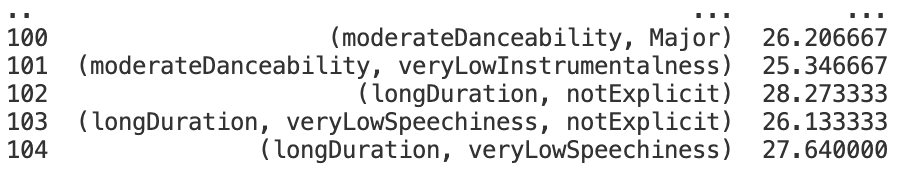
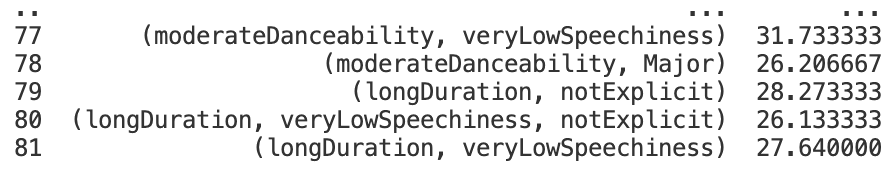
final push fp growth

diff --git a/src/classification/dst/dstModel.py b/src/classification/dst/dstModel.py
@@ -1,0 +1,74 @@
+import os.path as path
+import math
+import pandas as pd
+from sklearn.model_selection import KFold
+import numpy as np
+from sklearn.tree import DecisionTreeClassifier
+from sklearn.preprocessing import KBinsDiscretizer, LabelEncoder
+from sklearn.metrics import accuracy_score, f1_score, recall_score, precision_score
+from utils import getTrainDatasetPath, continousAndCategorialFeaturesForClassification, saveModelParams
+
+def makeDecisionTreeClassifierDictValue (criterion:str, maxDepth:int, minSampleLeaf:int, minSampleSplit:int, splitNumber:int, ccp_alpha, metrics,model):
+    return {
+        "criterion":criterion, 
+        "max_depth":maxDepth, 
+        "min_samples_leaf":minSampleLeaf, 
+        "min_samples_split":minSampleSplit, 
+        "splitNumber":splitNumber,
+        "ccp_alpha":ccp_alpha,
+        "metrics": metrics,
+        "model": model
+    }
+
+def getDecisionTreeModel (targetVariable):
+    columnsToUse = continousAndCategorialFeaturesForClassification
+
+    dataset = pd.read_csv (getTrainDatasetPath())[columnsToUse]
+
+    if(targetVariable == "mode"):
+        dataset["genre"]= LabelEncoder().fit_transform(dataset["genre"])
+    
+    X = dataset.copy().drop(targetVariable, axis=1)  
+    Y =  dataset[targetVariable]
+    kf = KFold(n_splits=20, shuffle=True, random_state=42)
+
+    criterions =  ['entropy', 'gini']
+    maxDepths = list(np.arange(2, 3)) + [None]
+    minSamplesLeaf= [ 0.1, 0.2, 1, 2 ,3 ,4 ,5 , 6]
+    minSamplesSplit=[ 0.05, 0.1, 0.2]
+    ccp_alphas= list(np.arange(0.01, 0.1))
+
+    decisionTreeClassifierDict = {}
+    for criterion in criterions:
+        for maxDepth in maxDepths:
+            for minSampleLeaf in minSamplesLeaf:
+                for minSampleSplit in minSamplesSplit:
+                    for ccp_alpha in ccp_alphas:
+                        splitNumber = 1
+                        for trainIndex, testIndex in kf.split (X):
+                                X_train, X_test = X.iloc[trainIndex], X.iloc[testIndex]
+                                y_train, y_test = Y.iloc[trainIndex], Y.iloc[testIndex]
+                                model = DecisionTreeClassifier(
+                                    max_depth=maxDepth, 
+                                    criterion=criterion, 
+                                    min_samples_leaf=minSampleLeaf, 
+                                    min_samples_split=minSampleSplit, 
+                                    ccp_alpha=ccp_alpha
+                                )
+                                model.fit (X_train, y_train)
+                                predictions=model.predict(X_test)
+                                accuracyScore = accuracy_score(predictions, y_test)
+                                
+                                f1Score = f1_score(predictions, y_test, average="weighted")
+                                recallScore = recall_score(predictions, y_test, average="weighted", zero_division=1)
+                                precisionScore = precision_score(predictions, y_test, average="weighted", zero_division=1)
+                                
+                                metrics = {'accuracyScore':accuracyScore, "f1Score":f1Score, "precisionScore": precisionScore, "recallScore":recallScore}
+
+                                decisionTreeRegKey = f"DST with criterion:{criterion}, maxDepth:{maxDepth}, minSampleLeaf:{minSampleLeaf}, minSampleSplit:{minSampleSplit}, splitNumber:{splitNumber}, ccp_alpha:{ccp_alpha}, metrics:{metrics}"
+                                decisionTreeClassifierDict[decisionTreeRegKey] = makeDecisionTreeClassifierDictValue (criterion, maxDepth, minSampleLeaf, minSampleSplit, splitNumber,ccp_alpha,  metrics, model)
+
+                                print(decisionTreeRegKey)
+                                splitNumber += 1
+                                #saveModelParams (decisionTreeClassifierDict, targetVariable)
+    return decisionTreeClassifierDict

diff --git a/src/patterMining/fpgrowth/featureTransformation.py b/src/patterMining/fpgrowth/featureTransformation.py
@@ -7,7 +7,7 @@ def getTrainDataset ():
 
 def getDatasetWithPatterMiningFeatures()->pd.DataFrame:
     df = pd.read_csv(getTrainDataset ())
-    selected_cols=['duration_ms', 'explicit', 'popularity', 'mode', 'genre', 'danceability', 'energy','speechiness', 'instrumentalness', 'acousticness', 'liveness', 'key']
+    selected_cols=['duration_ms', 'explicit', 'popularity', 'mode', 'genre', 'danceability', 'energy','speechiness', 'acousticness', 'liveness']
     
     df = df[selected_cols]
 
@@ -25,8 +25,6 @@ def getDatasetWithPatterMiningFeatures()->pd.DataFrame:
     #speechiness transformation
     df['speechiness_category'] = pd.cut(df['speechiness'], bins=[0.0, 0.2, 0.4, 0.6, 0.8, 1.0], labels=['veryLowSpeechiness', 'lowSpeechiness', 'moderateSpeechiness', 'highSpeechiness', 'veryHighSpeechiness'], include_lowest=True, right=True)
     
-    #instrumentalness transformation
-    df['instrumentalness_category'] = pd.cut(df['instrumentalness'], bins=[0.0, 0.2, 0.4, 0.6, 0.8, 1.0], labels=['veryLowInstrumentalness', 'lowInstrumentalness', 'moderateInstrumentalness', 'highInstrumentalness', 'veryHighInstrumentalness'], include_lowest=True, right=True)
     
     #acousticness transformation
     df['acousticness_category'] = pd.cut(df['acousticness'], bins=[0.0, 0.2, 0.4, 0.6, 0.8, 1.0], labels=['veryLowAcousticness', 'lowAcousticness', 'moderateAcousticness', 'highAcousticness', 'veryHighAcousticness'], include_lowest=True, right=True)
@@ -48,4 +46,4 @@ def getDatasetWithPatterMiningFeatures()->pd.DataFrame:
     df['genre_category'] = df['genre']
 
 
-    return df[['popularity_category','acousticness_category', 'liveness_category', 'danceability_category','energy_category' ,'speechiness_category', 'duration_category', 'instrumentalness_category', 'explicit_category', 'mode_category', 'genre_category']]
+    return df[['popularity_category','acousticness_category', 'liveness_category', 'danceability_category','energy_category' ,'speechiness_category', 'duration_category', 'explicit_category', 'mode_category', 'genre_category']]

diff --git a/src/patterMining/fpgrowth/fpgrowth.py b/src/patterMining/fpgrowth/fpgrowth.py
@@ -34,7 +34,7 @@ maximalFrequentItemSets = fpgrowth(X, target="m", supp=supp, zmin=zmin, report="
 print('\nMaximal Item Set\n')
 print (pd.DataFrame(maximalFrequentItemSets, columns=["frequent_itemset", "support"]))
 
-len_max_it, len_cl_it, support_thresholds = [], [], []
+len_max_it, len_cl_it, len_fr_it, support_thresholds = [], [], [], []
 max_supp = findCommonHighestSupport(pd.DataFrame(closedFrequentItemSets, columns=["frequent_itemset", "support"]),pd.DataFrame(maximalFrequentItemSets, columns=["frequent_itemset", "support"]))
 print('max is' + str(max_supp))
 
@@ -42,13 +42,16 @@ for i in range(2, int(max_supp)):
     support_thresholds.append(i)
     max_itemsets = fpgrowth(X, target="m", supp=i, zmin=zmin)
     cl_itemsets = fpgrowth(X, target="c", supp=i, zmin=zmin)
+    freq_itemsets = fpgrowth(X, target="s", supp=i, zmin=zmin)
     len_max_it.append(len(max_itemsets))
     len_cl_it.append(len(cl_itemsets))
+    len_fr_it.append(len(freq_itemsets))
 
 
 # Plotting as a line chart
 plt.plot(support_thresholds, len_max_it, label='Maximal', marker='o')
 plt.plot(support_thresholds, len_cl_it, label='Closed', marker='o')
+plt.plot(support_thresholds, len_fr_it, label='Frequent', marker='o')
 
 plt.xlabel('Support Threshold')
 plt.ylabel('Number of Itemsets')
